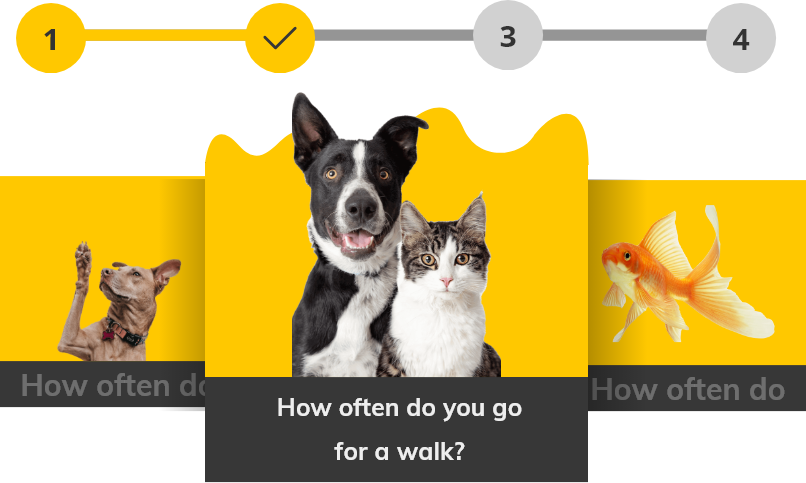
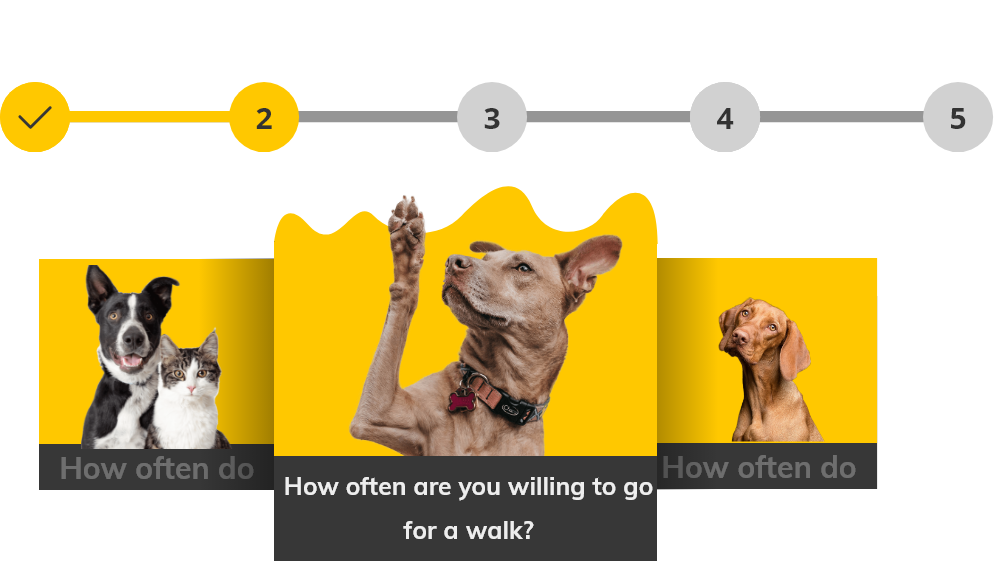
Added Backbutton & made changes to dog suggestor

diff --git a/website/dog_script.js b/website/dog_script.js
@@ -41,6 +41,27 @@ class Question {
     }
 }
 
+
+
+
+// create the back button and append it to the quiz element
+let backButton = document.createElement("button");
+backButton.innerHTML = "Back";
+backButton.style.backgroundColor = "rgb(43 41 41)";
+backButton.style.color = "#FFC800";
+backButton.style.borderColor = "#FFC800";
+backButton.style.borderWidth = "4px";
+backButton.style.height = "50px";
+backButton.style.width = "67px";
+backButton.style.borderRadius = "50%";
+backButton.onclick = function() {
+  quiz.questionIndex--;
+  displayQuestion();
+  pictureChange();
+}
+let quizElement = document.getElementById("quiz");
+quizElement.appendChild(backButton);
+
 // this function displays the questions in the container
 function displayQuestion() {
     if (quiz.isEnded()) {
@@ -57,10 +78,22 @@ function displayQuestion() {
             choiceElement.innerHTML = choices[i];
             guess("btn" + i, choices[i]);
         }
+    }
 
-        showProgress();
+    // hide or show the back button based on the current questionIndex
+    if (quiz.questionIndex === 0) {
+      backButton.style.display = "none";
+    } else {
+      backButton.style.display = "inline-block";
     }
 };
+
+
+
+
+
+
+
 
 // GUESS ANSWER
 function guess(id, guess) {
@@ -87,37 +120,70 @@ function showScores() {
     if (quiz.score >= 4) {
         //Dog person 
         let quizEndHTML =
-            `
-        <h2 id='score'> You are a Dog person</h2>
-
-        <center><img class="background" src="https://hips.hearstapps.com/vidthumb/images/gettyimages-155696335-1619709287.jpg?crop=1.00xw%3A0.376xh%3B0%2C0.225xh&resize=480%3A270">
-        <br>
-        <br>
-         <br>
-        <br>
-
-        <div class="quiz-repeat">
-
-        <a href="dog_suggestor.html">Take Quiz Again</a>
+        `
+        <h2 class='score'> YOUR IDEAL DOG:</h2>
+        <div class="wrapper">
+        <div class="main_fish">
+       <center>
+        <img class="fish_img" src="https://images.pexels.com/photos/686094/pexels-photo-686094.jpeg?auto=compress&cs=tinysrgb&w=1260&h=750&dpr=1">
+        
+        <h3 class='score'> Golden Retrever</h3>
+        <p class='score'>The Golden Retriever is a Scottish breed of retriever dog of medium size. It is characterised by a gentle and affectionate nature and a striking golden coat. They are great family pets and may shed but theyre loving nature more than covers for this.</p>
+        </center>
         </div>
-        `;
+       
+        <div class="other-consider">
+        <h3 class='score'> ALSO CONSIDER</h3>
+        <img class="fish_img2" src="https://images.pexels.com/photos/998251/pexels-photo-998251.jpeg?auto=compress&cs=tinysrgb&w=1260&h=750&dpr=1">
+        <h4 class='score'> Labrador</h4>
+        <img class="fish_img2" src="https://images.pexels.com/photos/342214/pexels-photo-342214.jpeg?auto=compress&cs=tinysrgb&w=1260&h=750&dpr=1">
+        <h4 class='score'> German Shepard</h4>
+        </div>
+
+       
+        </div>
+       
+        <br>
+        <br>
+        <div class="quiz-repeat">
+        <a href="shops.html">Find my pet</a>
+        </div>
+    `;
         let quizElement = document.getElementById("quiz");
         quizElement.innerHTML = quizEndHTML;
     }
     // Cat person
     else {
         let quizEndHTML =
-            `
-        <h2 id='score'> You are a Cat Person</h2>
-        <center><img class="background" src="https://hips.hearstapps.com/hmg-prod.s3.amazonaws.com/images/close-up-of-cat-wearing-sunglasses-while-sitting-royalty-free-image-1571755145.jpg?crop=0.670xw:1.00xh;0.147xw,0&resize=480:*">
-        <br>
-        <br>
+        `
+        <h2 class='score'> YOUR IDEAL DOG:</h2>
+        <div class="wrapper">
+        <div class="main_fish">
+       <center>
+        <img class="fish_img" src="https://puppytoob.com/wp-content/uploads/2015/08/cavalier1.jpg">
+        
+        <h3 class='score'>Cavalier King Charles Spaniel</h3>
+        <p class='score'>They’re small and they do not love too much to walk all the time. What they do love, however, is to spend their time doing what they love the most, which is sitting with you and relaxing. Some time playing in the yard and some short walks will be perfect for this particular breed.</p>
+        </center>
+        </div>
+       
+        <div class="other-consider">
+        <h3 class='score'> ALSO CONSIDER</h3>
+        <img class="fish_img2" src="https://puppytoob.com/wp-content/uploads/2015/08/english-bulldog.jpg">
+        <h4 class='score'> English Bulldog</h4>
+        <img class="fish_img2" src="https://puppytoob.com/wp-content/uploads/2015/08/bassett-hound.jpg">
+        <h4 class='score'>Bassett Hound</h4>
+        </div>
+
+       
+        </div>
+       
         <br>
         <br>
         <div class="quiz-repeat">
-        <a href="dog_suggestor.html">Take Quiz Again</a>
+        <a href="shops.html">Find my pet</a>
         </div>
-        `;
+    `;
         let quizElement = document.getElementById("quiz");
         quizElement.innerHTML = quizEndHTML;
 
@@ -148,19 +214,19 @@ function pictureChange() {
 // create questions here
 let questions = [
     new Question(
-        "", ["1 time per week", "2-3 times per week", "Every day", "I do not clean"], "2-3 times per week"
+        "", ["Apartment", "Studio", "Student House", "Family Home"], "Family Home"
     ),
     new Question(
-        "", ["Once a week", "Once a month", "Every day", "3-4 times per week"], "Every day"
+        "", ["Every day", "3-4 times a week", "1-2 times a week", "I do not want to walk"], "Every day"
     ),
     new Question(
-        "", ["I have plenty of space in my home, plus a backyard.", "Cozy, with an abundance of sunny windowsills.", "Pretty fly, with plenty of perches.", "It is perfect for me, but I am not so sure I want a pet roaming around…"], "I have plenty of space in my home, plus a backyard."
+        "", ["Yes, but its small", "Yes, a large piece of land", "No, but I live near a park", "No"], "Yes, a large piece of land"
     ),
     new Question(
-        "", ["Healthy. I can afford both routine and unexpected costs, if necessary.", "Basic. I can afford start-up supplies and inexpensive recurring costs.", "Pretty good, but I would like to avoid any major expenses.", "After the initial costs for a habitat and supplies, I would like to spend very little."], "Healthy. I can afford both routine and unexpected costs, if necessary."
+        "", ["Yes", "No", "Yes, but they are not that bad", "No, but somone in my house does"], "No"
     ),
     new Question(
-        "", ["As much as it takes. I plan to work with a trainer and am looking forward to learning along with my pet.", "I would prefer a pet that does not require any training. ", "I am not against training, but I was not planning on it.", "A little bit. Tricks sound especially fun!"], "As much as it takes. I plan to work with a trainer and am looking forward to learning along with my pet."
+        "", ["No", "Yes", "No, but one is on the way", "No, but family likes to vist"], "No"
     )
 ];
 

diff --git a/website/cat_script.js b/website/cat_script.js
@@ -42,6 +42,24 @@ class Question {
     }
 }
 
+// create the back button and append it to the quiz element
+let backButton = document.createElement("button");
+backButton.innerHTML = "Back";
+backButton.style.backgroundColor = "rgb(43 41 41)";
+backButton.style.color = "#FFC800";
+backButton.style.borderColor = "#FFC800";
+backButton.style.borderWidth = "4px";
+backButton.style.height = "50px";
+backButton.style.width = "67px";
+backButton.style.borderRadius = "50%";
+backButton.onclick = function() {
+  quiz.questionIndex--;
+  displayQuestion();
+  pictureChange();
+}
+let quizElement = document.getElementById("quiz");
+quizElement.appendChild(backButton);
+
 // this function displays the questions in the container
 function displayQuestion() {
     if (quiz.isEnded()) {
@@ -58,8 +76,13 @@ function displayQuestion() {
             choiceElement.innerHTML = choices[i];
             guess("btn" + i, choices[i]);
         }
+    }
 
-        showProgress();
+    // hide or show the back button based on the current questionIndex
+    if (quiz.questionIndex === 0) {
+      backButton.style.display = "none";
+    } else {
+      backButton.style.display = "inline-block";
     }
 };
 

diff --git a/website/fish_script.js b/website/fish_script.js
@@ -42,6 +42,24 @@ class Question {
     }
 }
 
+// create the back button and append it to the quiz element
+let backButton = document.createElement("button");
+backButton.innerHTML = "Back";
+backButton.style.backgroundColor = "rgb(43 41 41)";
+backButton.style.color = "#FFC800";
+backButton.style.borderColor = "#FFC800";
+backButton.style.borderWidth = "4px";
+backButton.style.height = "50px";
+backButton.style.width = "67px";
+backButton.style.borderRadius = "50%";
+backButton.onclick = function() {
+  quiz.questionIndex--;
+  displayQuestion();
+  pictureChange();
+}
+let quizElement = document.getElementById("quiz");
+quizElement.appendChild(backButton);
+
 // this function displays the questions in the container
 function displayQuestion() {
     if (quiz.isEnded()) {
@@ -58,8 +76,13 @@ function displayQuestion() {
             choiceElement.innerHTML = choices[i];
             guess("btn" + i, choices[i]);
         }
+    }
 
-        showProgress();
+    // hide or show the back button based on the current questionIndex
+    if (quiz.questionIndex === 0) {
+      backButton.style.display = "none";
+    } else {
+      backButton.style.display = "inline-block";
     }
 };
 

diff --git a/website/dog_suggestor.html b/website/dog_suggestor.html
@@ -53,10 +53,10 @@
                 </div>
 
                 <div class="buttons">
-                    <button class="btn" id="btn0">A. <span id="choice0">1 time per week</span></button>
-                    <button class="btn" id="btn1">B. <span id="choice1">2-3 times per week</span></button>
-                    <button class="btn" id="btn2">C. <span id="choice2">Every day</span></button>
-                    <button class="btn" id="btn3">D. <span id="choice3">I do not clean</span></button>
+                    <button class="btn" id="btn0">A. <span id="choice0">Apartment</span></button>
+                    <button class="btn" id="btn1">B. <span id="choice1">Studio</span></button>
+                    <button class="btn" id="btn2">C. <span id="choice2">Student House</span></button>
+                    <button class="btn" id="btn3">D. <span id="choice3">Family Home</span></button>
                 </div>
                 <hr>
             </div>
